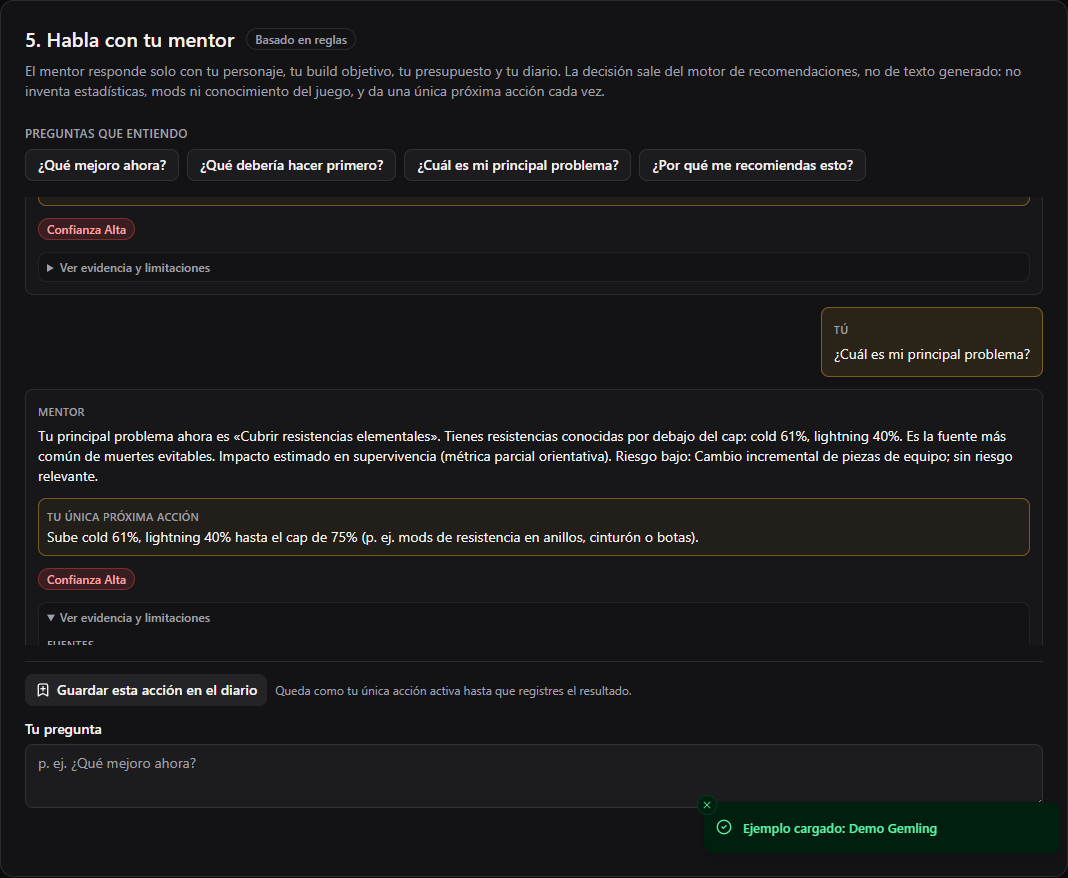
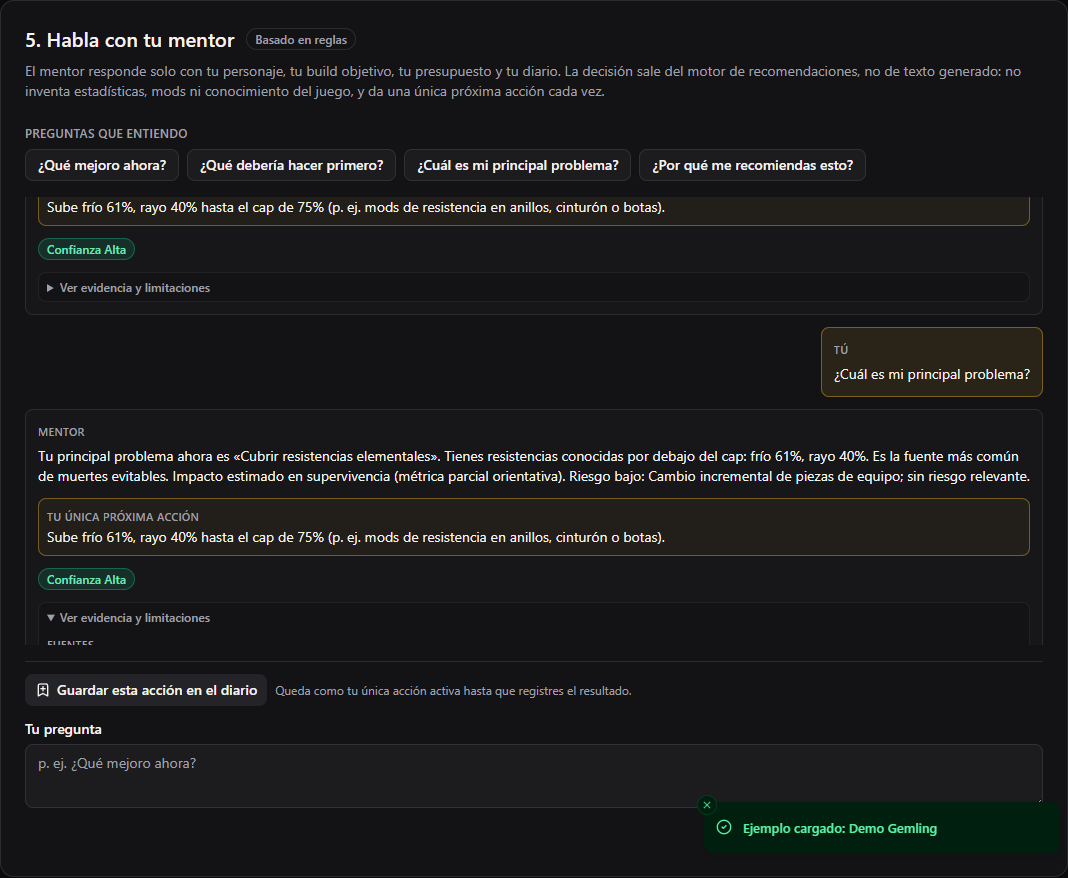
fix(hito-6a): resistencias en español y color propio para la confianza
Dos defectos visuales confirmados en la captura regenerada. Microcommit sobre
`hito-6a-conversational-mentor`; no toca `main` ni añade funciones nuevas.

1) La respuesta mostraba identificadores ingleses del dominio («cold 61%,
   lightning 40%»). Corregido EN EL ORIGEN de los textos del motor, no con
   reemplazos en React: `shared/domain.ts` publica `RESISTANCE_LABELS`
   (fire→fuego, cold→frío, lightning→rayo, chaos→caos) y
   `server/engine/rules.ts` lo usa al redactar. Quedan traducidas las
   resistencias bajas (acción y motivo), la lista de desconocidas y las notas
   «No verificado» de ambas ramas. Las CLAVES estructuradas del dominio siguen
   siendo `fire`/`cold`/`lightning`/`chaos` y no cambian: solo cambia el texto.

   El demo pasa de «cold 61%, lightning 40%» a «frío 61%, rayo 40%» tanto en
   `answer` como en `nextAction.text`.

2) «Confianza Alta» salía en rojo porque riesgo y confianza compartían
   `LEVEL_BADGE_CLASSES`. Comparten los valores estructurados `low`/`medium`/
   `high` pero no su lectura: en riesgo lo alto es malo, en confianza lo alto es
   bueno. Se separa en `RISK_BADGE_CLASSES` (bajo verde, medio ámbar, alto rojo)
   y `CONFIDENCE_BADGE_CLASSES` (alta verde, media ámbar, baja roja). Aplicado
   en los dos sitios que las usaban: la tarjeta de recomendación (riesgo y
   confianza) y el badge de confianza del mentor. `LEVEL_BADGE_CLASSES`
   desaparece para que nadie vuelva a elegir la escala por descuido.
[…]

diff --git a/server/engine/rules.ts b/server/engine/rules.ts
@@ -1,4 +1,11 @@
-import type { BuildTarget, CharacterProfile, GoalKind, SourceEvidence } from "../../shared/domain.js";
+import {
+  RESISTANCE_LABELS,
+  type BuildTarget,
+  type CharacterProfile,
+  type GoalKind,
+  type ResistanceKind,
+  type SourceEvidence,
+} from "../../shared/domain.js";
 
 /**
  * Reglas deterministas del motor de recomendaciones.
@@ -137,9 +144,18 @@ function dataGapCandidate(args: {
 // ---------------------------------------------------------------------------
 // Regla 1: resistencias elementales por debajo del cap (75%) — null-safe
 // ---------------------------------------------------------------------------
+
+/**
+ * Enumera resistencias en español para el texto del jugador. Las claves del
+ * dominio (`fire`, `cold`, …) nunca salen a la superficie: solo su etiqueta.
+ */
+function listarResistencias(kinds: ResistanceKind[]): string {
+  return kinds.map((k) => RESISTANCE_LABELS[k]).join(", ");
+}
+
 export const elementalResistancesRule: Rule = ({ profile }) => {
   const res = profile.resistances;
-  const keys = ["fire", "cold", "lightning"] as const;
+  const keys: ResistanceKind[] = ["fire", "cold", "lightning"];
   const unknown = keys.filter((k) => res[k] === null);
   const known = keys.filter((k) => res[k] !== null);
 
@@ -149,7 +165,7 @@ export const elementalResistancesRule: Rule = ({ profile }) => {
       dataGapCandidate({
         ruleId: "datos-resistencias",
         what: "resistencias",
-        detail: `Resistencias desconocidas: ${unknown.join(", ")}.`,
+        detail: `Resistencias desconocidas: ${listarResistencias(unknown)}.`,
         // Para survival es el dato crítico: sin resistencias no se puede evaluar nada.
         goalWeights: { ...BALANCED, survival: 2.5 },
       }),
@@ -160,7 +176,7 @@ export const elementalResistancesRule: Rule = ({ profile }) => {
   if (lows.length === 0) return out;
 
   const worst = Math.min(...lows.map((k) => res[k] ?? 0));
-  const labels = lows.map((k) => `${k} ${res[k]}%`).join(", ");
+  const labels = lows.map((k) => `${RESISTANCE_LABELS[k]} ${res[k]}%`).join(", ");
   out.push({
     ruleId: "resistencias-elementales",
     title: "Cubrir resistencias elementales",
@@ -178,7 +194,7 @@ export const elementalResistancesRule: Rule = ({ profile }) => {
     confidenceBase: "high",
     unverified:
       unknown.length > 0
-        ? [`No verificado — resistencias desconocidas no evaluadas: ${unknown.join(", ")}.`]
+        ? [`No verificado — resistencias desconocidas no evaluadas: ${listarResistencias(unknown)}.`]
         : [],
     extraSources: [],
   });

diff --git a/tests/unit/levelBadges.test.ts b/tests/unit/levelBadges.test.ts
@@ -1,0 +1,61 @@
+import { describe, expect, it } from "vitest";
+import {
+  CONFIDENCE_BADGE_CLASSES,
+  CONFIDENCE_LABELS,
+  RISK_BADGE_CLASSES,
+  RISK_LABELS,
+} from "../../src/lib/format.js";
+
+/**
+ * Semántica visual de los badges de nivel.
+ *
+ * Riesgo y confianza comparten los valores estructurados `low`/`medium`/`high`,
+ * pero NO su lectura: en riesgo lo alto es malo y en confianza lo alto es bueno.
+ * Cuando ambos compartían un único mapa, «Confianza Alta» se pintaba de rojo,
+ * como si fuese una alarma. Estas regresiones fijan las dos escalas.
+ */
+
+const VERDE = "emerald";
+const AMBAR = "amber";
+const ROJO = "red";
+
+function paleta(clases: string): string {
+  for (const color of [VERDE, AMBAR, ROJO]) {
+    if (clases.includes(color)) return color;
+  }
+  return "desconocida";
+}
+
+describe("badges de riesgo", () => {
+  it("bajo verde, medio ámbar, alto rojo", () => {
+    expect(paleta(RISK_BADGE_CLASSES.low)).toBe(VERDE);
+    expect(paleta(RISK_BADGE_CLASSES.medium)).toBe(AMBAR);
+    expect(paleta(RISK_BADGE_CLASSES.high)).toBe(ROJO);
+  });
+
+  it("riesgo alto sigue siendo rojo", () => {
+    expect(RISK_BADGE_CLASSES.high).toContain("text-red-300");
+    expect(RISK_LABELS.high).toBe("Alto");
+  });
+});
+
+describe("badges de confianza", () => {
+  it("alta verde, media ámbar, baja roja (escala invertida respecto al riesgo)", () => {
+    expect(paleta(CONFIDENCE_BADGE_CLASSES.high)).toBe(VERDE);
+    expect(paleta(CONFIDENCE_BADGE_CLASSES.medium)).toBe(AMBAR);
+    expect(paleta(CONFIDENCE_BADGE_CLASSES.low)).toBe(ROJO);
+  });
+
+  it("confianza alta usa las clases positivas, NUNCA las del riesgo alto", () => {
+    expect(CONFIDENCE_BADGE_CLASSES.high).toContain("text-emerald-300");
+    expect(CONFIDENCE_BADGE_CLASSES.high).not.toContain("red");
+    expect(CONFIDENCE_BADGE_CLASSES.high).not.toBe(RISK_BADGE_CLASSES.high);
+    expect(CONFIDENCE_LABELS.high).toBe("Alta");
+  });
+
+  it("riesgo y confianza no comparten un único mapa", () => {
+    // Si alguien volviese a unificarlos, los extremos coincidirían.
+    expect(CONFIDENCE_BADGE_CLASSES.high).toBe(RISK_BADGE_CLASSES.low);
+    expect(CONFIDENCE_BADGE_CLASSES.low).toBe(RISK_BADGE_CLASSES.high);
+  });
+});

diff --git a/tests/unit/engine.test.ts b/tests/unit/engine.test.ts
@@ -136,6 +136,44 @@ describe("engine — exactitud y contratos", () => {
     }
   });
 
+  it("las resistencias desconocidas se enumeran en español, no con las claves del dominio", async () => {
+    const profile = demoProfile();
+    // fuego y frío desconocidos, rayo conocido y bajo: se ejercitan a la vez la
+    // lista de desconocidas, la de bajas y la nota «No verificado».
+    profile.resistances = { fire: null, cold: null, lightning: 40, chaos: -10 };
+
+    const result = await generateRecommendations(
+      profile,
+      { ...BASE_OPTIONS, goal: { kind: "survival" } },
+      { priceService: offlinePriceService() },
+    );
+
+    const bajas = result.recommendations.find((r) => r.id === "rec-resistencias-elementales");
+    expect(bajas?.action).toContain("rayo 40%");
+    expect(bajas?.reason).toContain("rayo 40%");
+    // La nota «No verificado» de la regla de resistencias tampoco filtra claves.
+    expect(bajas?.unverified.join(" ")).toContain(
+      "resistencias desconocidas no evaluadas: fuego, frío.",
+    );
+
+    // Con TODAS las elementales desconocidas aparece el hueco de datos, cuya
+    // lista de resistencias también tiene que salir en español.
+    const todoDesconocido = demoProfile();
+    todoDesconocido.resistances = { fire: null, cold: null, lightning: null, chaos: null };
+    const sinDatos = await generateRecommendations(
+      todoDesconocido,
+      { ...BASE_OPTIONS, goal: { kind: "survival" } },
+      { priceService: offlinePriceService() },
+    );
+    const gap = sinDatos.recommendations.find((r) => r.id === "rec-datos-resistencias");
+    expect(gap?.unverified.join(" ")).toContain("Resistencias desconocidas: fuego, frío, rayo.");
+
+    const visible = [...result.recommendations, ...sinDatos.recommendations]
+      .flatMap((r) => [r.title, r.action, r.reason, ...r.unverified])
+      .join(" | ");
+    expect(visible).not.toMatch(/\b(fire|cold|lightning|chaos)\b/);
+  });
+
   it("arma rare NUNCA se valora con precios de únicos aunque coincida el nombre/base", async () => {
     const profile = demoProfile();
     const weapon = profile.items.find((i) => i.slot === "weapon");

diff --git a/tests/unit/mentorService.test.ts b/tests/unit/mentorService.test.ts
@@ -118,6 +118,49 @@ describe("mentor — intención explain_priority", () => {
   });
 });
 
+describe("mentor — resistencias en español", () => {
+  /** Todo el texto que la interfaz llega a pintar de una respuesta. */
+  function textoVisible(answer: Awaited<ReturnType<typeof answerMentorQuery>>): string {
+    return [
+      answer.answer,
+      answer.nextAction?.text ?? "",
+      ...answer.unverified,
+      ...answer.sources.map((s) => s.label),
+      answer.unsupported?.reason ?? "",
+    ].join(" | ");
+  }
+
+  it("el personaje demo presenta «frío 61%, rayo 40%», no las claves del dominio", async () => {
+    const answer = await answerMentorQuery(
+      { ...BASE, question: "¿Qué mejoro ahora?", memory: emptyMemory() },
+      { priceService: offlinePriceService() },
+    );
+
+    expect(answer.answer).toContain("frío 61%, rayo 40%");
+    expect(answer.nextAction?.text).toContain("frío 61%, rayo 40%");
+  });
+
+  it("ninguna intención filtra identificadores ingleses de resistencia", async () => {
+    for (const question of ["¿Qué mejoro ahora?", "¿Cuál es mi principal problema?"]) {
+      const answer = await answerMentorQuery(
+        { ...BASE, question, memory: emptyMemory() },
+        { priceService: offlinePriceService() },
+      );
+      expect(textoVisible(answer)).not.toMatch(/\b(fire|cold|lightning|chaos)\b/);
+    }
+  });
+
+  it("las claves ESTRUCTURADAS del dominio siguen intactas", () => {
+    // La traducción es solo de textos: el perfil conserva sus claves inglesas.
+    expect(Object.keys(demoProfile().resistances).sort()).toEqual([
+      "chaos",
+      "cold",
+      "fire",
+      "lightning",
+    ]);
+  });
+});
+
 describe("mentor — pregunta no soportada", () => {
   it("contesta honestamente, sin acción y con ejemplos válidos", async () => {
     const priceService = offlinePriceService();

diff --git a/src/lib/format.ts b/src/lib/format.ts
@@ -91,11 +91,29 @@ export const MAGNITUDE_LABELS: Record<"low" | "medium" | "high", string> = {
   high: "Alto",
 };
 
-/** Clases de color (Tailwind) para badges de riesgo / confianza / magnitud. */
-export const LEVEL_BADGE_CLASSES: Record<"low" | "medium" | "high", string> = {
-  low: "border-emerald-500/40 bg-emerald-500/15 text-emerald-300",
-  medium: "border-amber-500/40 bg-amber-500/15 text-amber-300",
-  high: "border-red-500/40 bg-red-500/15 text-red-300",
+/**
+ * Paleta de los badges de nivel. Riesgo y confianza comparten los mismos
+ * valores estructurados (`low`/`medium`/`high`) pero NO la misma semántica
+ * visual, así que tienen mapas distintos: en riesgo lo alto es malo (rojo) y en
+ * confianza lo alto es bueno (verde). Compartir un único mapa pintaba
+ * «Confianza Alta» de rojo, como si fuese una alarma.
+ */
+const NIVEL_POSITIVO = "border-emerald-500/40 bg-emerald-500/15 text-emerald-300";
+const NIVEL_INTERMEDIO = "border-amber-500/40 bg-amber-500/15 text-amber-300";
+const NIVEL_NEGATIVO = "border-red-500/40 bg-red-500/15 text-red-300";
+
+/** Riesgo: bajo verde, medio ámbar, alto rojo. */
+export const RISK_BADGE_CLASSES: Record<RiskLevel, string> = {
+  low: NIVEL_POSITIVO,
+  medium: NIVEL_INTERMEDIO,
+  high: NIVEL_NEGATIVO,
+};
+
+/** Confianza: alta verde, media ámbar, baja roja (escala invertida). */
+export const CONFIDENCE_BADGE_CLASSES: Record<ConfidenceLevel, string> = {
+  high: NIVEL_POSITIVO,
+  medium: NIVEL_INTERMEDIO,
+  low: NIVEL_NEGATIVO,
 };
 
 export function formatDateTime(iso: string): string {

diff --git a/src/components/RecommendationCard.tsx b/src/components/RecommendationCard.tsx
@@ -14,11 +14,12 @@ import { Card, CardContent, CardHeader, CardTitle } from "@/components/ui/card";
 import { Checkbox } from "@/components/ui/checkbox";
 import { Label } from "@/components/ui/label";
 import {
+  CONFIDENCE_BADGE_CLASSES,
   CONFIDENCE_LABELS,
   formatCost,
   formatDateTime,
-  LEVEL_BADGE_CLASSES,
   MAGNITUDE_LABELS,
+  RISK_BADGE_CLASSES,
   RISK_LABELS,
 } from "@/lib/format";
 import { cn } from "@/lib/utils";
@@ -71,14 +72,14 @@ export function RecommendationCard({
           </Badge>
           <Badge
             variant="outline"
-            className={LEVEL_BADGE_CLASSES[rec.risk.level]}
+            className={RISK_BADGE_CLASSES[rec.risk.level]}
             title={rec.risk.description}
           >
             Riesgo {RISK_LABELS[rec.risk.level]}
           </Badge>
           <Badge
             variant="outline"
-            className={LEVEL_BADGE_CLASSES[rec.confidence]}
+            className={CONFIDENCE_BADGE_CLASSES[rec.confidence]}
           >
             Confianza {CONFIDENCE_LABELS[rec.confidence]}
           </Badge>

diff --git a/shared/domain.ts b/shared/domain.ts
@@ -189,6 +189,24 @@ export const ResistancesSchema = z.object({
 });
 export type Resistances = z.infer<typeof ResistancesSchema>;
 
+export type ResistanceKind = keyof Resistances;
+
+/**
+ * Nombres en español de las resistencias, para el TEXTO que lee el jugador.
+ *
+ * Las claves estructuradas del dominio siguen siendo `fire`/`cold`/`lightning`/
+ * `chaos` y no cambian: este mapa existe para que el motor redacte en español
+ * EN EL ORIGEN, en vez de que la interfaz parchee cadenas ya escritas en
+ * inglés. En minúsculas porque siempre aparecen dentro de una frase
+ * («Sube frío 61%…»); quien necesite capitalizarlas lo hace en su vista.
+ */
+export const RESISTANCE_LABELS: Record<ResistanceKind, string> = {
+  fire: "fuego",
+  cold: "frío",
+  lightning: "rayo",
+  chaos: "caos",
+};
+
 export const AttributesSchema = z.object({
   /** null = desconocido. */
   str: z.number().int().nullable().default(null),

diff --git a/src/sections/MentorChatSection.tsx b/src/sections/MentorChatSection.tsx
@@ -13,8 +13,8 @@ import type { MentorState } from "@/hooks/useMentor";
 import type { MentorTurn } from "@/lib/mentorThread";
 import { savableNextAction } from "@/lib/mentorThread";
 import {
+  CONFIDENCE_BADGE_CLASSES,
   CONFIDENCE_LABELS,
-  LEVEL_BADGE_CLASSES,
   SOURCE_KIND_LABELS,
   formatDateTime,
 } from "@/lib/format";
@@ -340,7 +340,7 @@ function MentorAnswerDetail({
       {/* 2) Confianza (siempre en español) y estado del diario. */}
       <div className="flex flex-wrap items-center gap-2">
         {answer.confidence !== null && (
-          <Badge variant="outline" className={LEVEL_BADGE_CLASSES[answer.confidence]}>
+          <Badge variant="outline" className={CONFIDENCE_BADGE_CLASSES[answer.confidence]}>
             Confianza {CONFIDENCE_LABELS[answer.confidence]}
           </Badge>
         )}
